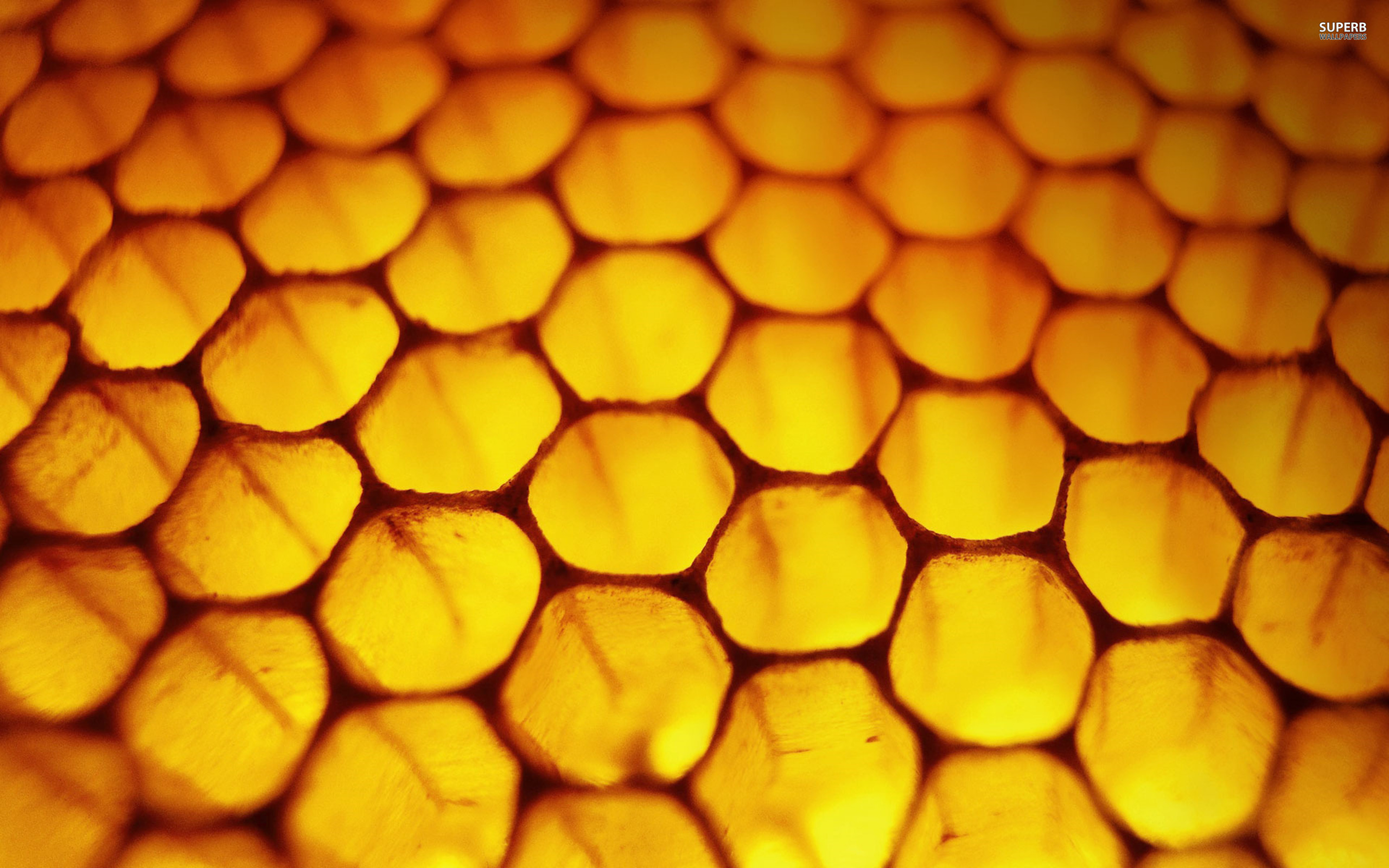
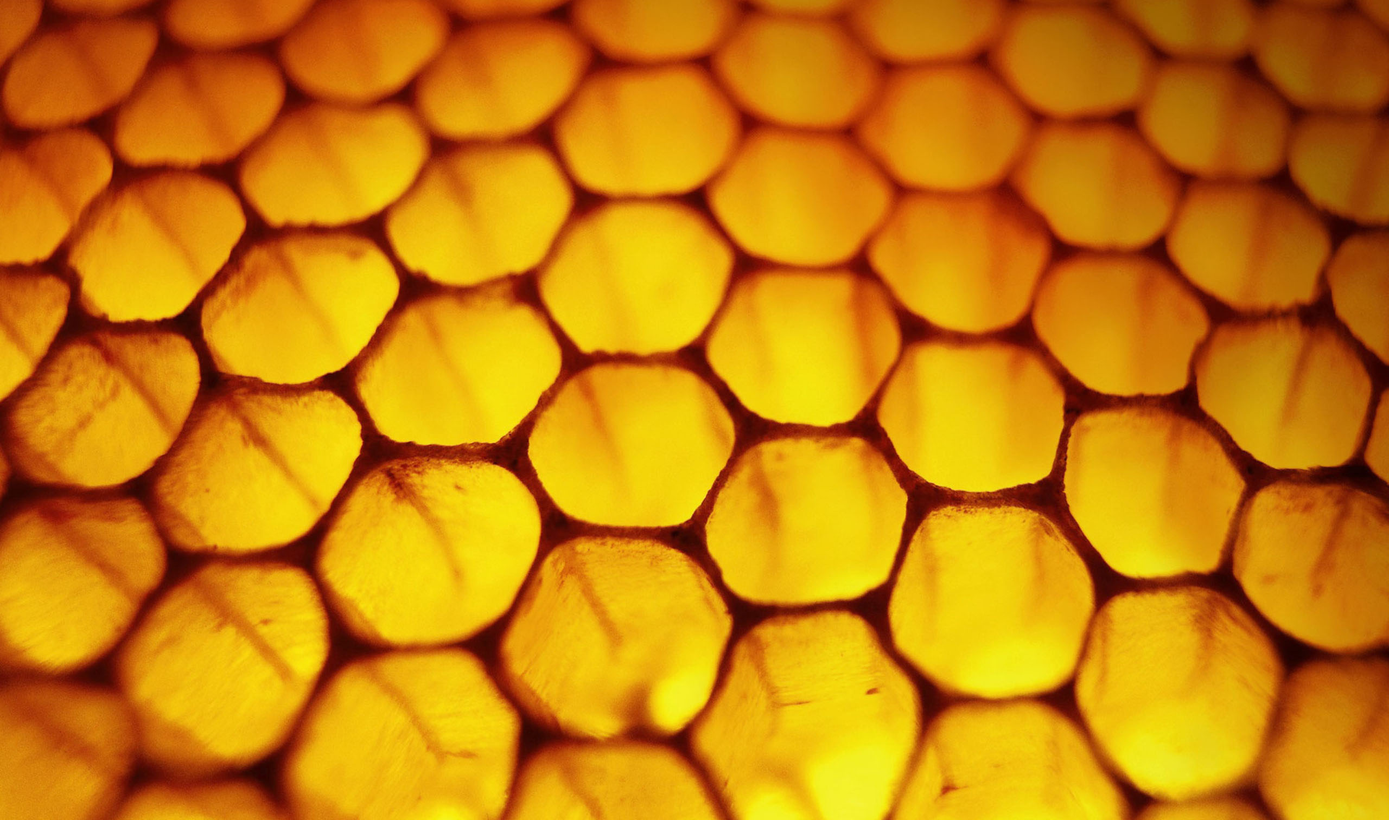
Ryan add pic

diff --git a/SkillBuilding1/css/styles.css b/SkillBuilding1/css/styles.css
@@ -16,6 +16,7 @@ body {
   overflow-x: hidden;
   font-family: Nunito;
 }
+nav {position:fixed; width:100%; top:0;}
 
 h1 {
    font-size: 250%
@@ -27,7 +28,7 @@ p {
   color: #333;
 }
 
-.slide {
+.slide {float:left;
   position: relative;
   padding: 25vh 10%;
   min-height: 100vh;
@@ -93,29 +94,29 @@ img:last-of-type {
 }
 
 #title {
-  background-image: url("http://lorempixel.com/output/abstract-q-c-640-480-6.jpg");
+  background-image:url(../img/honeycomb.jpg);
    background-attachment: fixed;  
 }
 
 #slide1:before {
-  background-image: url("http://lorempixel.com/output/abstract-q-c-640-480-4.jpg");
+  background-image: url(../img/Meadow-Flowers-Wallpapers-1-1.jpg);
   transform: translateZ(-1px) scale(2);
   z-index:-1;
 }
 
 #slide2 {
-  background-image: url("http://lorempixel.com/output/abstract-q-c-640-480-3.jpg");
+  background-image: url(../img/Chalkboard.jpg);
   background-attachment: fixed;
 }
 
 #slide3:before {
-  background-image: url("http://lorempixel.com/output/abstract-q-c-640-480-5.jpg");
+  background-image: url(../img/flickr-906727708-hd.jpg);
   transform: translateZ(-1px) scale(2);
   z-index:-1;
 }
 
 #slide4 {
-  background: #222;
+  background-image: url(../img/flickr-3460968236-hd.jpg);
 }
 
 

diff --git a/SkillBuilding1/index.html b/SkillBuilding1/index.html
@@ -58,8 +58,7 @@
     <h1>Slide 2</h1>
     <p>Lorem ipsum dolor sit amet, in velit iudico mandamus sit, persius dolorum in per, postulant mnesarchum cu nam. Malis movet ornatus id vim, feugait detracto est ea, eam eruditi conceptam in. Ne sit explicari interesset. Labores perpetua cum at. Id viris docendi denique vim.</p>
   </div>
-  <img src="http://lorempixel.com/output/abstract-q-c-640-480-6.jpg">
-  <img src="http://lorempixel.com/output/abstract-q-c-640-480-4.jpg"> 
+
 </div>
 
 <div id="slide3" class="slide">
